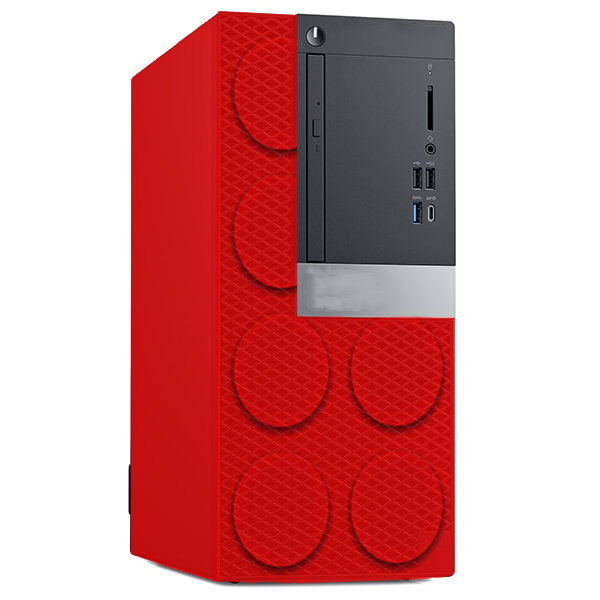
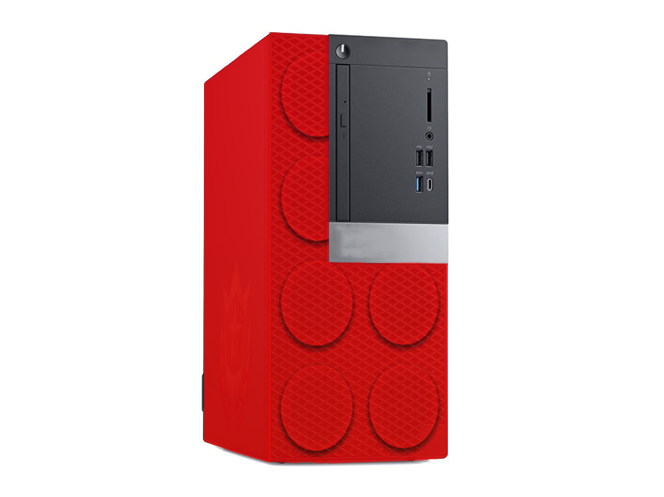
Style carousel and update images to aid in balanced design

Changed region(s): [[0.21, 0.0, 0.78, 0.996]]

diff --git a/products.html b/products.html
@@ -40,7 +40,7 @@
     </header>
     <section id="products-carousel-outer">
         <div id="products-carousel">
-            <div id="carouselExampleCaptions" class="carousel slide" data-bs-ride="carousel">
+            <div id="carouselExampleCaptions" class="carousel carousel-dark slide" data-bs-ride="carousel">
                 <div class="carousel-indicators">
                   <button type="button" data-bs-target="#carouselExampleCaptions" data-bs-slide-to="0" class="active" aria-current="true" aria-label="Slide 1"></button>
                   <button type="button" data-bs-target="#carouselExampleCaptions" data-bs-slide-to="1" aria-label="Slide 2"></button>
@@ -49,8 +49,8 @@
                 <div class="carousel-inner" data-bs-interval="10000">
                   <div class="carousel-item active">
                     <div id="fortnight">
-                        <img src="assets/images/freaky-forts-black.jpg" class="d-block w-100" alt="Fortnight Themed Computer.">
-                        <img src="assets/images/freaky-forts-green.jpg" class="d-block w-100" alt="Fortnight Themed Computer.">
+                        <img class="carousel-right" src="assets/images/freaky-forts-black.jpg" alt="Fortnight Themed Computer.">
+                        <img class="carousel-left" src="assets/images/freaky-forts-green.jpg" alt="Fortnight Themed Computer.">
                         <div class="carousel-caption d-none d-md-block">
                             <h5>Fortnight Themed Computer.</h5>
                         </div>
@@ -58,8 +58,8 @@
                   </div>
                   <div class="carousel-item" data-bs-interval="10000">
                         <div id="lego">
-                            <img src="assets/images/lego-brick-pc.png" class="d-block w-100" alt="Lego Themed Computer.">
-                            <img src="assets/images/lego-brick-wall-pc.jpg" class="d-block w-100" alt="Lego Themed Computer.">
+                            <img class="carousel-right" src="assets/images/lego-brick-pc.png" alt="Lego Themed Computer.">
+                            <img class="carousel-left" src="assets/images/lego-brick-wall-pc.png" alt="Lego Themed Computer.">
                             <div class="carousel-caption d-none d-md-block">
                             <h5>Lego Themed Computer.</h5>
                             </div>
@@ -67,8 +67,8 @@
                   </div>
                   <div class="carousel-item" data-bs-interval="10000">
                         <div id="minecraft">
-                            <img src="assets/images/minecraft-grass-pc.jpg" class="d-block w-100" alt="Minecraft Themed Computer.">
-                            <img src="assets/images/minecraft-ore-pc.jpg" class="d-block w-100" alt="Minecraft Themed Computer.">
+                            <img class="carousel-right" src="assets/images/minecraft-grass-pc.png" alt="Minecraft Themed Computer.">
+                            <img class="carousel-left" src="assets/images/minecraft-ore-pc.png" alt="Minecraft Themed Computer.">
                             <div class="carousel-caption d-none d-md-block">
                             <h5>Minecraft Themed Computer.</h5>
                             </div>

diff --git a/assets/css/style.css b/assets/css/style.css
@@ -122,10 +122,13 @@ body {
     padding-top: 50px;
 }
 
+.what-we-do p, .cheap-and-capable-gaming p, .your-pc-your-way p {
+    padding-top: 20px;
+}
+
 .what-we-do h1, .cheap-and-capable-gaming h1, .your-pc-your-way h1 {
     text-transform: capitalize;
     text-decoration: underline 3px solid #C80000;
-    margin-bottom: 20px;
 }
 
 .text-box-left {
@@ -145,7 +148,6 @@ body {
     max-width: 250px;
     height: 250px;
     object-fit: cover;
-    width: 100%;
 }
 
 .text-box-right {
@@ -165,7 +167,6 @@ body {
     max-width: 250px;
     height: 250px;
     object-fit: cover;
-    width: 100%;
 }
 
 @media screen and (max-width: 1050px) {
@@ -273,7 +274,7 @@ body {
 #products-carousel-outer {
     height: 500px;
     width: 100%;
-    background-color: #BFBFBF;
+    background-color: #fff;
 }
 
 #get-in-touch-outer {
@@ -350,18 +351,17 @@ body {
 }
 
 .carousel-item {
-    height: inherit;
-    width: auto;
+    height: 500px;
+    width: 100%;
+}
+
+.carousel-item img {
+    height: auto;
+    max-width: 50%;
 }
 
 .carousel-caption h5 {
     color: #000;
-}
-
-#fortnight img, #lego img, #minecraft img {
-    display: inline-block;
-    width: auto;
-    height: 400px;
 }
 
 #accordion-outer {
